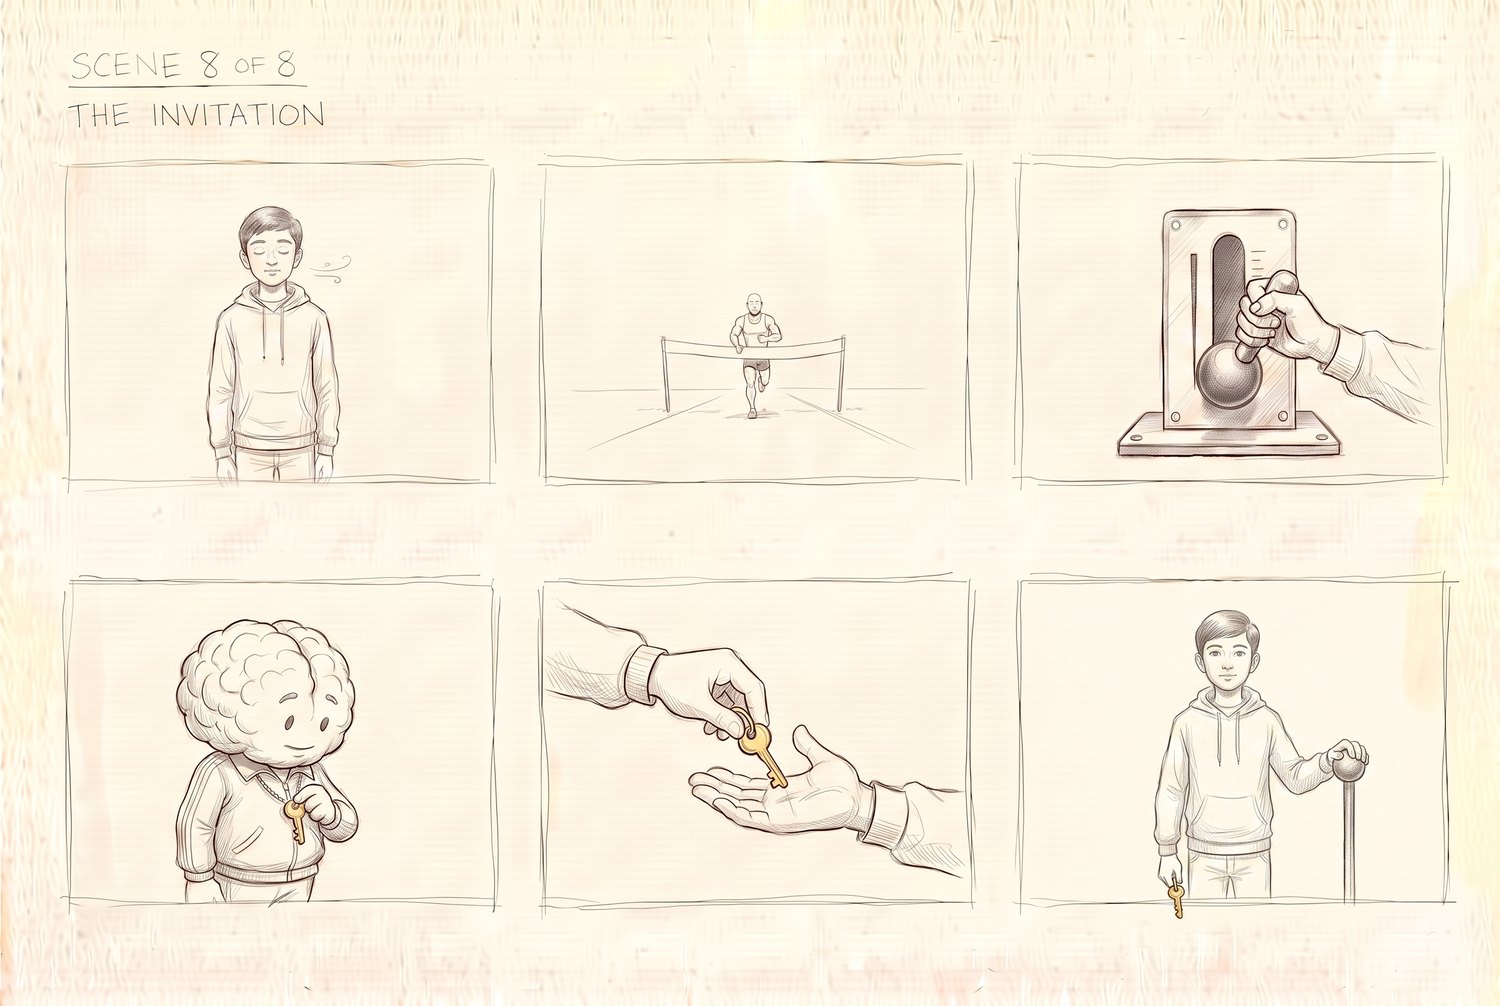
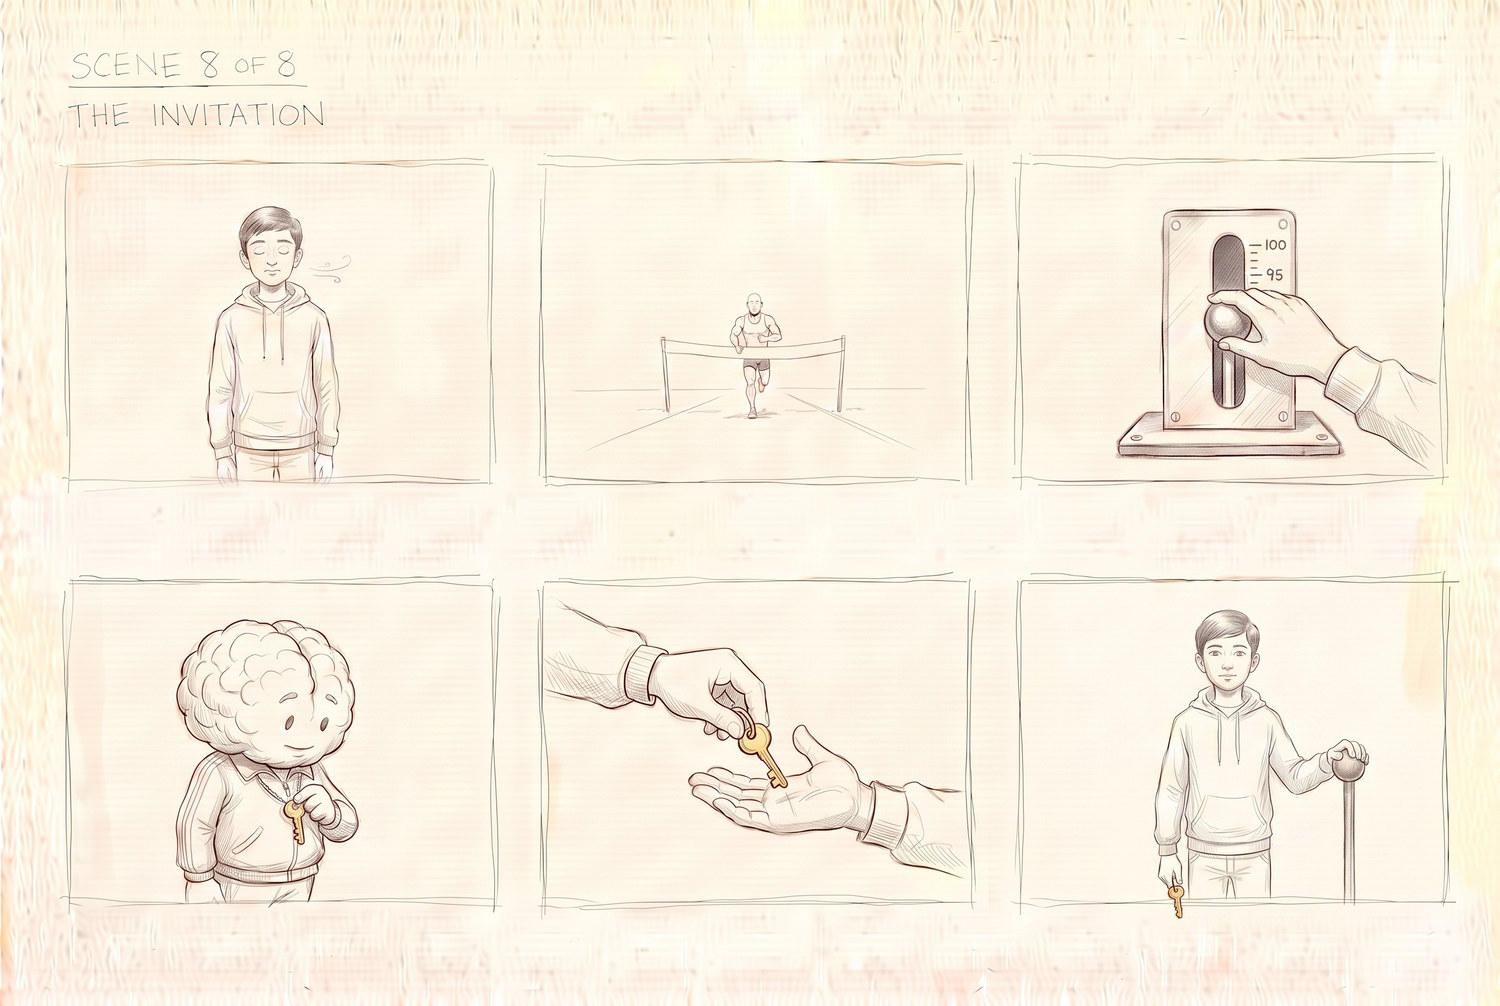
S8: commit repaired sheet, lever upright with scale at 95; DEFECTS and HANDOVER_V6 corrected, prompt was run

diff --git a/assets/V6/DEFECTS.md b/assets/V6/DEFECTS.md
@@ -12,11 +12,17 @@ comes last, and some of those are left alone.
 
 ## PRIORITY ONE, WRONG MEANING
 
-    S8 p3   THE LEVER IS UPSIDE DOWN. Ball at the bottom of the slot with the shaft
-            rising out of it, gripped in the middle. On LEVER.jpg the ball is the
-            grip and sits on top of the shaft. Marko caught this.
-            Also: no scale and no numbers on it, and the hand is an adult's in a
-            cuffed sleeve when it should be the boy's. This is his moment.
+    S8 p3   PARTLY FIXED 12.8.2026. The prompt was run after all, and it landed two
+            of the three faults. New sheet committed over the old one.
+            FIXED, the lever is the right way up. Ball on top of the shaft as the
+            grip, matching LEVER.jpg.
+            FIXED, the scale is on it. 100 and 95 with tick marks, ball sitting at
+            95 with the gap above it open, which is the story law drawn correctly.
+            STILL WRONG, the hand is an adult's in a cuffed sleeve when it should
+            be the boy's. This is his moment. One editor pass, hand only,
+            everything else in the panel untouched.
+            NOTE the handover said this prompt was issued and not run. It was run.
+            The repo was a build behind the artwork. Check the sheet, not the note.
 
     S6 p2   The ball already sits high, close to 100, BEFORE he eases it. Panel 3
             then shows it at 95. So the lever appears to travel DOWNWARD across the

diff --git a/HANDOVER_V6.md b/HANDOVER_V6.md
@@ -8,7 +8,13 @@ Boards go to Neha by midday tomorrow on WhatsApp. Before they go, work the defec
 
 ## THE ONLY OPEN JOB
 `assets/V6/DEFECTS.md`. Seven defects, three of them priority one. Fix one panel at a time in the
-editor. The S8 lever prompt was issued and not yet run.
+editor.
+
+**Corrected 12.8.2026.** This file previously said the S8 lever prompt was issued and not yet run. It
+was run. Marko produced the repaired sheet and the repo was simply a build behind it. The new
+`V6_S8.jpg` is committed. Two of the three S8 p3 faults are gone, the lever is upright with its scale
+and the ball reads 95 with the gap open above it. One fault remains, the hand is still an adult's and
+must be the boy's.
 
 ## THE FILM
 V3 script, eight scenes, plus four things from Manan's V1: the muscle factory, the phone in low power
